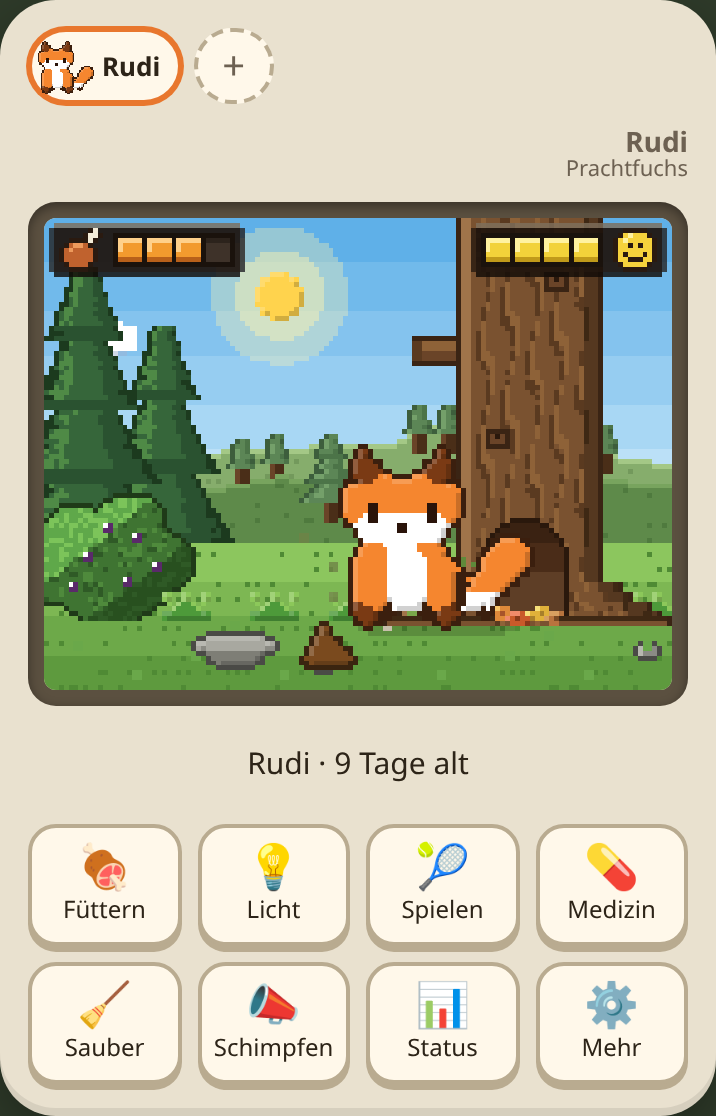
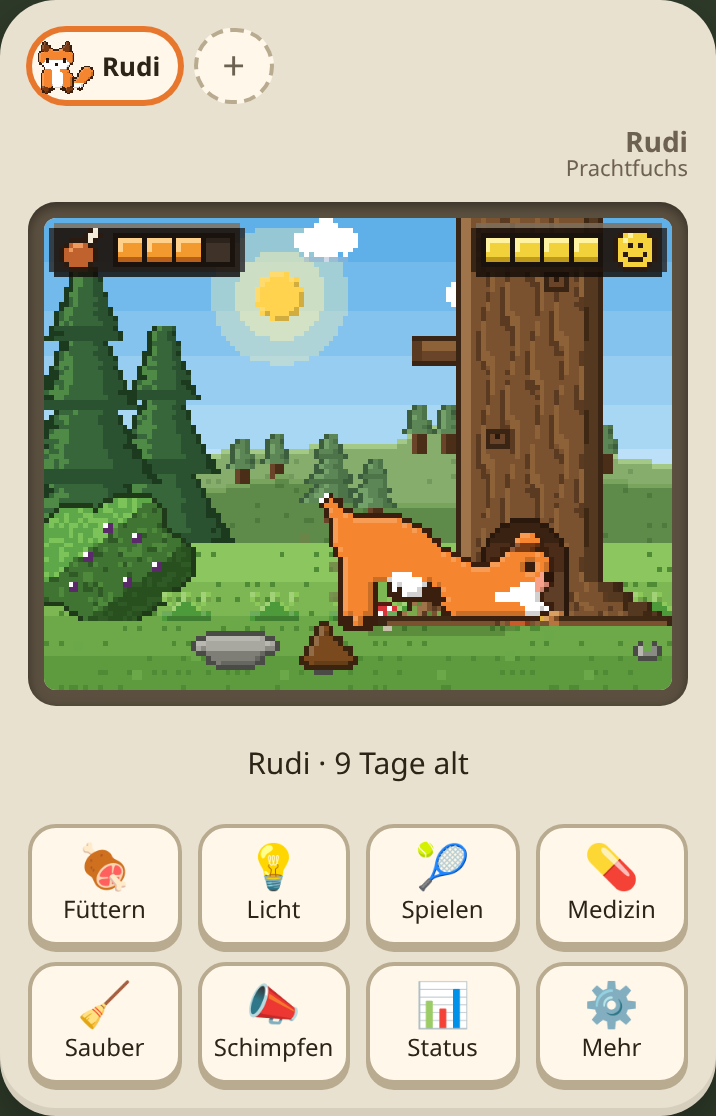
Ziehende Wolken mit zufälligem Wetter (Wolkenzahl und Wind), hinter Bäumen/Hecke/Fensterkreuz

diff --git a/src/render/scene.ts b/src/render/scene.ts
@@ -4,8 +4,9 @@ import { species } from '../species';
 import type { SpeciesDef } from '../species/types';
 import { ColorMap, ICONS, RES, drawMap, drawPixels, eggColors, eggMap, hiResCanvas, petSprite } from './pixels';
 import { Critters } from './critters';
-import { bands, cloud, glow, shadeHex } from './fx';
-import { PLATE_COLORS, SceneKind, drawNestBack, drawNestFront, drawOutdoor, skyState } from './outdoor';
+import { bands, glow, shadeHex } from './fx';
+import { GROUND_Y, PLATE_COLORS, SceneKind, drawNestBack, drawNestFront, drawOutdoorScenery, drawOutdoorSky, skyState } from './outdoor';
+import { Clouds } from './weather';
 
 export const SCREEN_W = 64;
 export const SCREEN_H = 48;
@@ -218,6 +219,8 @@ export class Scene {
   private env: SceneKind = 'room';
   private shownPetId: string | null = null;
   private bg = hiResCanvas(SCREEN_W, SCREEN_H);
+  private bgSky = hiResCanvas(SCREEN_W, SCREEN_H);
+  private clouds = new Clouds();
   private bgKey = '';
   private bgDay = true;
   private critters = new Critters();
@@ -292,15 +295,28 @@ export class Scene {
         this.drawDecor(sp, t, 'static');
         this.bgDay = true;
       } else {
-        this.bgDay = drawOutdoor(this.ctx, this.env, s.clock);
+        // Himmel und Landschaft getrennt, damit die Wolken dazwischen ziehen können
+        const skyCtx = this.bgSky.getContext('2d')!;
+        skyCtx.clearRect(0, 0, SCREEN_W, SCREEN_H);
+        this.bgDay = drawOutdoorSky(skyCtx, s.clock);
+        drawOutdoorScenery(this.ctx, this.env);
         this.drawDecor(sp, t, 'static');
-        if (!this.bgDay) this.overlay(0.3); // Nacht draußen: Hintergrund dunkler
       }
       this.nestBack();
       this.ctx = main;
       this.bgKey = bgKey;
     }
-    ctx.drawImage(this.bg, 0, 0, SCREEN_W, SCREEN_H);
+    if (this.env === 'room') {
+      ctx.drawImage(this.bg, 0, 0, SCREEN_W, SCREEN_H);
+      // Wolken im Fenster, dann Fensterkreuz und Spiegelung wieder darüber
+      this.clouds.draw(ctx, s.clock, t, WIN, !skyState(s.clock).day);
+      this.drawWindowFront();
+    } else {
+      ctx.drawImage(this.bgSky, 0, 0, SCREEN_W, SCREEN_H);
+      this.clouds.draw(ctx, s.clock, t, { x: 0, y: 0, w: SCREEN_W, h: GROUND_Y }, !this.bgDay);
+      ctx.drawImage(this.bg, 0, 0, SCREEN_W, SCREEN_H);
+      if (!this.bgDay) this.overlay(0.3); // Nacht draußen: Hintergrund dunkler
+    }
     this.drawDecor(sp, t, 'anim');
     this.critters.draw(ctx, this.env, this.env === 'room' ? skyState(s.clock).day : this.bgDay, t, WIN);
 
@@ -529,18 +545,23 @@ export class Scene {
     if (!day) {
       ctx.fillStyle = '#e8e6c8';
       for (const [sx, sy] of STARS) ctx.fillRect(WIN.x + sx, WIN.y + sy, 0.5, 0.5);
-    } else {
-      const drift = (clock / MIN / 6) % 40;
-      cloud(ctx, WIN.x - 6 + drift, WIN.y + 4, 1);
-      cloud(ctx, WIN.x + 14 - drift * 0.6, WIN.y + 9, 0.7);
     }
     const icon = ICONS[day ? 'sun' : 'moon'];
     const sx = WIN.x - 5 + f * (WIN.w + 5);
     const sy = WIN.y + WIN.h - Math.sin(Math.PI * f) * (WIN.h - 1) - 1;
     if (day) glow(ctx, sx + 2.5, sy + 2.5, 5, '#fff3b0');
     drawMap(ctx, icon.map, icon.colors, sx, sy);
-    // Spiegelung auf der Scheibe
-    // Spiegelung als Pixel-Diagonalen
+    ctx.restore();
+    this.drawWindowFront();
+  }
+
+  /** Spiegelung, Fensterkreuz und Fensterbrett (liegen über Himmel und Wolken) */
+  private drawWindowFront() {
+    const ctx = this.ctx;
+    ctx.save();
+    ctx.beginPath();
+    ctx.rect(WIN.x, WIN.y, WIN.w, WIN.h);
+    ctx.clip();
     ctx.fillStyle = 'rgba(255,255,255,0.25)';
     for (const off of [3, 4.5]) {
       for (let k = 0; k < WIN.h * 2; k++) {
@@ -550,8 +571,6 @@ export class Scene {
       }
     }
     ctx.restore();
-
-    // Fensterkreuz und Fensterbrett
     ctx.fillStyle = '#5a4630';
     ctx.fillRect(WIN.x + WIN.w / 2 - 0.5, WIN.y, 1, WIN.h);
     ctx.fillRect(WIN.x, WIN.y + WIN.h / 2 - 0.5, WIN.w, 1);

diff --git a/src/render/weather.ts b/src/render/weather.ts
@@ -1,0 +1,73 @@
+// Ziehende Wolken. Das Wetter (Bewölkung und Wind) wechselt etwa alle 45 Minuten zufällig,
+// in einem moderaten Rahmen; die Wolken passen sich langsam an.
+import { cloud } from './fx';
+
+interface Cloud {
+  x: number;
+  y: number;
+  size: number;
+  speed: number; // Faktor auf den Wind (größere/nähere Wolken etwas schneller)
+}
+
+const PERIOD = 45 * 60_000;
+
+function rand(seed: number) {
+  let a = seed >>> 0;
+  return () => {
+    a = (a + 0x6d2b79f5) >>> 0;
+    let t = Math.imul(a ^ (a >>> 15), a | 1);
+    t ^= t + Math.imul(t ^ (t >>> 7), t | 61);
+    return ((t ^ (t >>> 14)) >>> 0) / 4294967296;
+  };
+}
+
+/** Wetter für einen Zeitpunkt: wie viele Wolken (1–5) und wie viel Wind (Einheiten/s, mit Richtung) */
+export function weatherAt(clock: number): { clouds: number; wind: number } {
+  const r = rand(Math.floor(clock / PERIOD) * 7919 + 13);
+  const clouds = 1 + Math.floor(r() * 5); // 1..5
+  const strength = 0.4 + r() * 1.4; // 0,4..1,8
+  const dir = r() < 0.75 ? 1 : -1; // meist West -> Ost
+  return { clouds, wind: strength * dir };
+}
+
+export class Clouds {
+  private list: Cloud[] = [];
+  private wind = 0;
+  private last = performance.now();
+  private started = false;
+
+  /** zeichnet die Wolken in den Himmelsbereich (x0..x0+w, y0..y0+h) */
+  draw(ctx: CanvasRenderingContext2D, clock: number, t: number, area: { x: number; y: number; w: number; h: number }, night: boolean) {
+    const dt = Math.min(0.1, (t - this.last) / 1000);
+    this.last = t;
+    const wx = weatherAt(clock);
+    if (!this.started) {
+      // beim Start schon ein paar Wolken verteilt
+      this.wind = wx.wind;
+      for (let i = 0; i < wx.clouds; i++) this.list.push(this.make(area, area.x + Math.random() * area.w));
+      this.started = true;
+    }
+    // Wind ändert sich sanft
+    this.wind += (wx.wind - this.wind) * Math.min(1, dt * 0.2);
+    // neue Wolken am Rand, wenn zu wenige da sind
+    if (this.list.length < wx.clouds && Math.random() < dt * 0.25) {
+      const startX = this.wind > 0 ? area.x - 12 : area.x + area.w + 2;
+      this.list.push(this.make(area, startX));
+    }
+    for (const c of this.list) c.x += this.wind * c.speed * dt;
+    // Wolken, die den Bereich verlassen haben, verschwinden
+    this.list = this.list.filter((c) => c.x > area.x - 16 && c.x < area.x + area.w + 6);
+    ctx.save();
+    ctx.beginPath();
+    ctx.rect(area.x, area.y, area.w, area.h);
+    ctx.clip();
+    if (night) ctx.globalAlpha = 0.35;
+    for (const c of this.list) cloud(ctx, c.x, c.y, c.size);
+    ctx.restore();
+  }
+
+  private make(area: { y: number; h: number }, x: number): Cloud {
+    const size = 0.6 + Math.random() * 0.7;
+    return { x, y: area.y + 2 + Math.random() * Math.max(1, area.h * 0.45), size, speed: 0.7 + size * 0.4 };
+  }
+}

diff --git a/src/render/outdoor.ts b/src/render/outdoor.ts
@@ -1,7 +1,7 @@
 // Außenszenen für Tiere, die nicht im Haus wohnen:
 //  forest = Waldrand mit Fuchsbau, garden = Garten mit Hecke und Laubnest.
 import { ICONS, drawMap, type ColorMap } from './pixels';
-import { bands, cloud, glow } from './fx';
+import { bands, glow } from './fx';
 
 export type SceneKind = 'room' | 'forest' | 'garden';
 
@@ -32,7 +32,7 @@ function px(ctx: CanvasRenderingContext2D, color: string, x: number, y: number, 
   ctx.fillRect(Math.round(x * 2) / 2, Math.round(y * 2) / 2, w, h); // auf das 0,5er-Pixelraster
 }
 
-function drawSky(ctx: CanvasRenderingContext2D, sky: Sky, clock: number) {
+function drawSky(ctx: CanvasRenderingContext2D, sky: Sky) {
   const [top, bottom] = !sky.day
     ? ['#0b0f2a', '#262c5c']
     : sky.edge < 0.08
@@ -45,11 +45,6 @@ function drawSky(ctx: CanvasRenderingContext2D, sky: Sky, clock: number) {
     const STARS = [[3, 3], [11, 7], [19, 2], [27, 9], [34, 4], [42, 11], [50, 3], [58, 8], [7, 14], [23, 16], [46, 17], [61, 15], [15, 11], [38, 7], [55, 13]];
     ctx.fillStyle = '#e8e6c8';
     for (const [x, y] of STARS) ctx.fillRect(x, y, 0.5, 0.5);
-  } else {
-    // Wolken ziehen langsam (eine Position pro Minute)
-    const drift = (clock / 60000 / 4) % 90;
-    cloud(ctx, ((10 + drift) % 90) - 13, 6, 1.2);
-    cloud(ctx, ((55 + drift * 0.7) % 90) - 13, 12, 0.8);
   }
   const icon = ICONS[sky.day ? 'sun' : 'moon'];
   const x = -5 + sky.f * (W + 5);
@@ -239,13 +234,17 @@ function drawBush(ctx: CanvasRenderingContext2D, cx: number, cy: number, rx: num
   }
 }
 
-/** Hintergrund draußen. Gibt zurück, ob gerade Tag ist. */
-export function drawOutdoor(ctx: CanvasRenderingContext2D, kind: SceneKind, clock: number): boolean {
+/** Himmel draußen (ohne Wolken, die ziehen extra). Gibt zurück, ob gerade Tag ist. */
+export function drawOutdoorSky(ctx: CanvasRenderingContext2D, clock: number): boolean {
   const sky = skyState(clock);
-  drawSky(ctx, sky, clock);
+  drawSky(ctx, sky);
+  return sky.day;
+}
+
+/** Landschaft draußen (auf transparentem Grund, liegt über Himmel und Wolken) */
+export function drawOutdoorScenery(ctx: CanvasRenderingContext2D, kind: SceneKind) {
   if (kind === 'forest') drawForest(ctx);
   else drawGarden(ctx);
-  return sky.day;
 }
 
 // ---------- Schlafplatz draußen: Baumhöhle (Fuchs) bzw. Laubhaufen (Igel) ----------

diff --git a/src/render/weather.test.ts b/src/render/weather.test.ts
@@ -1,0 +1,20 @@
+import { describe, expect, it } from 'vitest';
+import { weatherAt } from './weather';
+
+describe('Wetter', () => {
+  it('bleibt in einem moderaten Rahmen und wechselt mit der Zeit', () => {
+    const seen = new Set<string>();
+    for (let i = 0; i < 200; i++) {
+      const w = weatherAt(i * 45 * 60_000);
+      expect(w.clouds).toBeGreaterThanOrEqual(1);
+      expect(w.clouds).toBeLessThanOrEqual(5);
+      expect(Math.abs(w.wind)).toBeGreaterThanOrEqual(0.4);
+      expect(Math.abs(w.wind)).toBeLessThanOrEqual(1.8);
+      seen.add(`${w.clouds}`);
+    }
+    expect(seen.size).toBeGreaterThan(3);
+  });
+  it('ist innerhalb eines Zeitraums stabil', () => {
+    expect(weatherAt(1000)).toEqual(weatherAt(20 * 60_000));
+  });
+});

diff --git a/SPEC.md b/SPEC.md
@@ -202,6 +202,11 @@ Bei einem Ei werden die Parameter ignoriert.
   - Grashalme, Zaunmaserung
 - Die Tiere bewegen sich in halben Schritten.
 
+**Wolken und Wetter:** Am Himmel draußen und im Fenster drinnen **ziehen Wolken vorbei**.
+- Das Wetter wechselt etwa **alle 45 Minuten** zufällig, aber in einem moderaten Rahmen: **1 bis 5 Wolken** und **Wind** von schwach bis mäßig, meist von West nach Ost, manchmal andersherum.
+- Wolken kommen am Rand herein und ziehen hinaus. Größere Wolken sind etwas schneller, Wind und Wolkenzahl ändern sich sanft.
+- Sie ziehen **hinter** Bäumen, Hecke und Fensterkreuz vorbei. Nachts sind sie nur blass zu sehen.
+
 **Tiere im Hintergrund:** Ab und zu (etwa alle 15–50 Sekunden, nur tagsüber) ist etwas los:
 - **Fuchs (Wald):** Eine Maus huscht vorbei, ein Igel läuft vorbei, ein **Reh** läuft klein im Hintergrund vorbei und **grast** zwischendurch, oder ein **Vogel** fliegt vorbei.
 - **Igel (Garten):** eine Maus oder ein Vogel.
